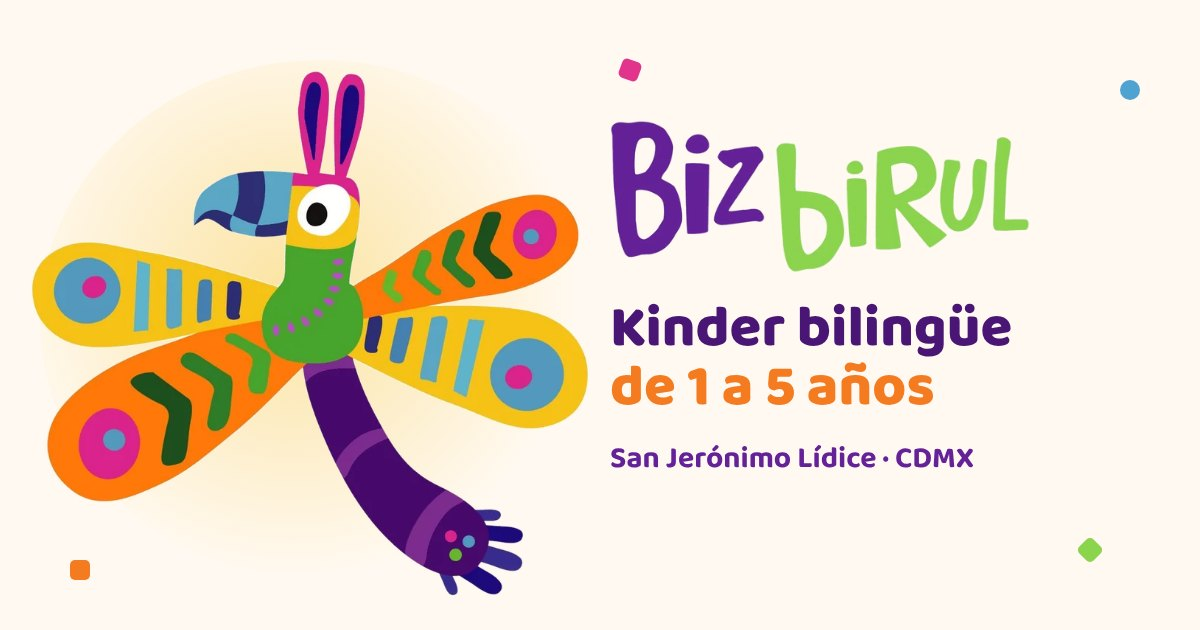
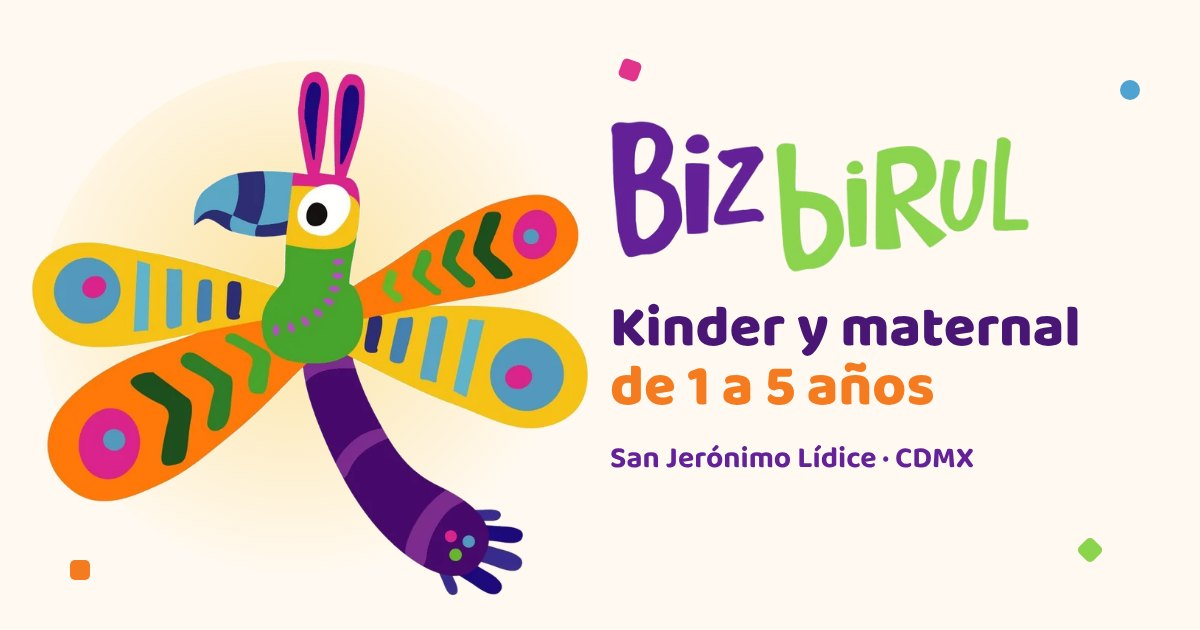
Add files via upload

Changed region(s): [[0.6475, 0.4825, 0.925, 0.573]]

diff --git a/index.html b/index.html
@@ -3,8 +3,8 @@
 <head>
 <meta charset="utf-8">
 <meta name="viewport" content="width=device-width,initial-scale=1,viewport-fit=cover">
-<title>Bizbirul · Kinder bilingüe en San Jerónimo Lídice</title>
-<meta name="description" content="Kinder bilingüe para niños de 1 a 5 años en San Jerónimo Lídice, CDMX. Pre maternal, Maternal, Kinder 1 y Kinder 2. Agenda tu visita por WhatsApp.">
+<title>Bizbirul · Kinder y maternal en San Jerónimo Lídice</title>
+<meta name="description" content="Kinder y maternal para niños de 1 a 5 años en San Jerónimo Lídice, CDMX. Pre maternal, Maternal, Kinder 1 y Kinder 2. Agenda tu visita por WhatsApp.">
 <link rel="canonical" href="https://bizbirul.com/">
 <meta name="theme-color" content="#652198">
 <link rel="icon" type="image/png" sizes="32x32" href="/favicon-32.png">
@@ -12,18 +12,18 @@
 <meta property="og:type" content="website">
 <meta property="og:locale" content="es_MX">
 <meta property="og:site_name" content="Bizbirul">
-<meta property="og:title" content="Bizbirul · Kinder bilingüe en San Jerónimo Lídice">
+<meta property="og:title" content="Bizbirul · Kinder y maternal en San Jerónimo Lídice">
 <meta property="og:description" content="Los primeros años, en un lugar hecho solo para ellos. Recorre el kinder en 3D y agenda tu visita.">
 <meta property="og:url" content="https://bizbirul.com/">
 <meta property="og:image" content="https://bizbirul.com/og.jpg">
 <meta property="og:image:width" content="1200"><meta property="og:image:height" content="630">
 <meta name="twitter:card" content="summary_large_image">
-<script type="application/ld+json">{"@context": "https://schema.org", "@type": "Preschool", "name": "Bizbirul", "description": "Kinder bilingüe para niños de 1 a 5 años en San Jerónimo Lídice, CDMX.", "url": "https://bizbirul.com/", "telephone": "+52 55 5102 3296", "email": "direccion@bizbirul.com", "image": "https://bizbirul.com/og.jpg", "logo": "https://bizbirul.com/icon-512.png", "address": {"@type": "PostalAddress", "streetAddress": "José María Morelos 92", "addressLocality": "San Jerónimo Lídice, La Magdalena Contreras", "addressRegion": "CDMX", "addressCountry": "MX"}, "sameAs": ["https://www.instagram.com/bizbirul/"]}</script>
+<script type="application/ld+json">{"@context": "https://schema.org", "@type": "Preschool", "name": "Bizbirul", "description": "Kinder y maternal para niños de 1 a 5 años en San Jerónimo Lídice, CDMX.", "url": "https://bizbirul.com/", "telephone": "+52 55 5102 3296", "email": "direccion@bizbirul.com", "image": "https://bizbirul.com/og.jpg", "logo": "https://bizbirul.com/icon-512.png", "address": {"@type": "PostalAddress", "streetAddress": "José María Morelos 92", "addressLocality": "San Jerónimo Lídice, La Magdalena Contreras", "addressRegion": "CDMX", "addressCountry": "MX"}, "sameAs": ["https://www.instagram.com/bizbirul/"]}</script>
 <style>
 html,body{margin:0}
 :root{padding-top:env(safe-area-inset-top,0px);padding-bottom:env(safe-area-inset-bottom,0px)}
 img{max-width:100%}
-.real-gallery{display:grid;grid-template-columns:repeat(auto-fit,minmax(min(100%,300px),1fr));gap:14px}
+.real-gallery{display:grid;grid-template-columns:repeat(2,minmax(0,1fr));gap:10px;align-content:start}
 .real-gallery figure{margin:0;position:relative;border-radius:22px;overflow:hidden;background:var(--tint)}
 .real-gallery img{display:block;width:100%;height:auto;aspect-ratio:16/10;object-fit:cover}
 .real-gallery figcaption{position:absolute;left:12px;bottom:12px;background:rgba(255,255,255,.92);color:#2B1745;border-radius:999px;padding:4px 14px;font-family:var(--display);font-weight:800}
@@ -127,7 +127,7 @@ nav a:hover{background:var(--tint)}
 .ph{width:100%;max-width:100%;border-radius:var(--r);background:repeating-linear-gradient(135deg,var(--tint) 0 14px,var(--surface) 14px 28px);border:2px dashed var(--line);display:grid;place-items:center;text-align:center;color:var(--muted);font-weight:700;font-size:.9rem;padding:16px;aspect-ratio:4/3}
 
 /* why */
-.why{display:grid;gap:14px;grid-template-columns:repeat(auto-fit,minmax(230px,1fr))}
+.why{display:grid;gap:14px;grid-template-columns:repeat(auto-fit,minmax(min(100%,290px),1fr))}
 .why article{background:var(--surface);border-radius:24px;padding:22px;display:grid;gap:8px;align-content:start;border:2px solid var(--line)}
 .why h3{font-size:1.4rem;color:var(--deep)}
 .why .ic{width:48px;height:48px;border-radius:14px;display:grid;place-items:center}
@@ -212,6 +212,35 @@ nav a:hover{background:var(--tint)}
 .sm-x{position:absolute;top:10px;right:10px;z-index:2;width:44px;height:44px;border-radius:50%;border:0;background:rgba(255,255,255,.92);color:#2B1745;font:800 1.6rem/1 var(--display);cursor:pointer}
 @media (max-width:520px){.spot-modal{place-items:end center;padding-bottom:0;padding-left:0;padding-right:0}.sm-card{border-radius:26px 26px 0 0;padding-bottom:env(safe-area-inset-bottom,0px)}.sm-cta{order:-1;width:100%}.sm-btn{flex:1}}
 .detail p{color:var(--muted)}
+.hdr-actions{display:flex;align-items:center;gap:8px}
+.ig-btn{display:inline-flex;align-items:center;gap:8px;height:44px;padding:0 14px;border-radius:999px;text-decoration:none;font:800 .95rem var(--display);color:#FFFFFF;background:linear-gradient(45deg,#F9C31F,#F47B20 30%,#E2348C 60%,#652198)}
+.ig-btn svg{width:20px;height:20px}
+@media (max-width:420px){.ig-btn span{display:none}.ig-btn{width:44px;padding:0;justify-content:center}}
+.btn-ig{color:#FFFFFF;background:linear-gradient(45deg,#F9C31F,#F47B20 30%,#E2348C 60%,#652198)}
+.btn-ig svg{width:22px;height:22px}
+.ads{margin-bottom:22px;display:grid;gap:12px}
+.ads-title{font-size:1.4rem;color:var(--deep)}
+.ads-list{display:grid;gap:14px;grid-template-columns:repeat(auto-fill,minmax(min(100%,260px),1fr))}
+.ad{background:var(--bg);border:2px solid var(--line);border-radius:22px;overflow:hidden;display:grid}
+.ad img{width:100%;height:auto;display:block;aspect-ratio:4/5;object-fit:cover}
+.ad-body{padding:14px 16px 16px;display:grid;gap:8px}
+.ad-date{font-family:var(--display);font-weight:800;color:var(--action)}
+.ad h4{margin:0;font-family:var(--display);font-size:1.25rem;color:var(--deep)}
+.ads-empty{background:var(--bg);border:2px dashed var(--line);border-radius:22px;padding:18px;display:flex;flex-wrap:wrap;gap:12px;align-items:center;justify-content:space-between}
+.ads-empty p{margin:0;color:var(--muted);max-width:46ch}
+.quotes{display:grid;gap:14px;grid-template-columns:repeat(auto-fit,minmax(min(100%,280px),1fr))}
+.quote{margin:0;background:var(--surface);border:2px solid var(--line);border-radius:24px;padding:22px;display:grid;gap:12px;align-content:start;position:relative}
+.quote::before{content:"“";font-family:var(--display);font-weight:800;font-size:4rem;line-height:.6;color:var(--leaf)}
+.quote p{margin:0;font-size:1.05rem}
+.quote cite{font-style:normal;font-family:var(--display);font-weight:800;color:var(--brand)}
+.quote cite span{display:block;font-family:var(--body);font-weight:600;font-size:.9rem;color:var(--muted)}
+.reads{display:grid;gap:14px;grid-template-columns:repeat(auto-fit,minmax(min(100%,250px),1fr))}
+.read{background:var(--surface);border:2px solid var(--line);border-radius:22px;padding:20px;display:grid;gap:8px;align-content:start;text-decoration:none;color:var(--fg)}
+.read:hover{border-color:var(--brand)}
+.read .tag{justify-self:start;border-radius:999px;padding:2px 12px;font-family:var(--display);font-weight:800;font-size:.85rem;color:#2B1745}
+.read h3{font-size:1.25rem;color:var(--deep)}
+.read p{margin:0;color:var(--muted)}
+.read .src{font-weight:800;font-size:.85rem;color:var(--brand)}
 /* about */
 .about{display:grid;gap:24px}
 @media (min-width:860px){.about{grid-template-columns:1fr 1fr}}
@@ -272,27 +301,28 @@ footer a{color:inherit}
 <header>
 <div class="wrap">
 <a aria-label="Bizbirul, inicio" class="logo" href="#inicio"><img alt="Bizbirul" height="48" src="img/c527915c3b.webp" width="132"/></a>
-<button aria-controls="nav" aria-expanded="false" aria-label="Abrir menú" class="menu-btn" id="menuBtn"><svg fill="none" stroke="currentColor" stroke-linecap="round" stroke-width="2.5" viewbox="0 0 24 24"><path d="M4 7h16M4 12h16M4 17h16"></path></svg></button>
 <nav id="nav">
 <ul>
 <li><a href="#programa">Programa</a></li>
-<li><a href="#dia">Espacios</a></li>
+<li><a href="#dia">Un día</a></li>
 <li><a href="#recorrido">Recorrido</a></li>
 <li><a href="#nosotros">Nosotros</a></li>
 <li><a href="#camps">Camps y eventos</a></li>
 <li><a href="#admisiones">Admisiones</a></li>
+<li><a href="#papas">Para papás</a></li>
 <li><a href="#contacto">Contacto</a></li>
 </ul>
 </nav>
+<div class="hdr-actions"><a aria-label="Instagram de Bizbirul" class="ig-btn" href="https://www.instagram.com/bizbirul/" rel="noopener" target="_blank"><svg aria-hidden="true" viewbox="0 0 24 24"><rect fill="none" height="18" rx="5" stroke="currentColor" stroke-width="2" width="18" x="3" y="3"></rect><circle cx="12" cy="12" fill="none" r="4" stroke="currentColor" stroke-width="2"></circle><circle cx="17.3" cy="6.7" fill="currentColor" r="1.3"></circle></svg><span>Instagram</span></a><button aria-controls="nav" aria-expanded="false" aria-label="Abrir menú" class="menu-btn" id="menuBtn"><svg fill="none" stroke="currentColor" stroke-linecap="round" stroke-width="2.5" viewbox="0 0 24 24"><path d="M4 7h16M4 12h16M4 17h16"></path></svg></button></div>
 </div>
 </header>
 <main>
 <section class="hero" id="inicio">
 <div class="wrap">
 <div class="hero-copy">
-<span class="eyebrow">Kinder bilingüe · San Jerónimo Lídice</span>
-<h1>Los primeros años, en un lugar hecho <em>solo para ellos</em></h1>
-<p class="lead">Grupos pequeños, inglés desde pre maternal y maestras que conocen a cada niño por su nombre.</p>
+<span class="eyebrow">Kinder y maternal · San Jerónimo Lídice</span>
+<h1>Donde la felicidad <em>despierta el aprendizaje</em></h1>
+<p class="lead">Kinder y maternal de 1 a 5 años, con enfoque humanista inspirado en Reggio Emilia y Waldorf. Grupos pequeños, 50% en inglés y mucho juego.</p>
 <ul aria-label="Grados" class="ages">
 <li>Pre maternal</li><li>Maternal</li><li>Kinder 1</li><li>Kinder 2</li>
 </ul>
@@ -312,12 +342,14 @@ footer a{color:inherit}
 <div class="wrap">
 <div class="sec-head"><span class="eyebrow">Por qué Bizbirul</span><h2>Lo que nos hace distintos</h2></div>
 <div class="why">
-<article><div class="ic" style="background:color-mix(in srgb,var(--sky) 25%,transparent);color:var(--brand)"><svg fill="none" stroke="currentColor" stroke-linecap="round" stroke-width="2" viewbox="0 0 24 24"><path d="M4 5h9v7H8l-4 3zM13 9h7v7l-3-2h-4"></path></svg></div><h3>Bilingüe desde el inicio</h3><p>Español e inglés todos los días, desde pre maternal. </p></article>
-<article><div class="ic" style="background:color-mix(in srgb,var(--leaf) 25%,transparent);color:var(--brand)"><svg fill="none" stroke="currentColor" stroke-linecap="round" stroke-width="2" viewbox="0 0 24 24"><circle cx="8" cy="8" r="3"></circle><circle cx="16" cy="8" r="3"></circle><path d="M3 20c0-3 2-5 5-5s5 2 5 5M11 20c0-3 2-5 5-5s5 2 5 5"></path></svg></div><h3>Grupos pequeños</h3><p>Atención personalizada para que cada niño avance a su ritmo. </p></article>
-<article><div class="ic" style="background:color-mix(in srgb,var(--sun) 35%,transparent);color:var(--brand)"><svg fill="none" stroke="currentColor" stroke-linecap="round" stroke-width="2" viewbox="0 0 24 24"><path d="M9 18V5l11-2v13"></path><circle cx="6" cy="18" r="3"></circle><circle cx="17" cy="16" r="3"></circle></svg></div><h3>Música propia</h3><p>Bizbirul tiene sus propias canciones, como "Alas". Los niños aprenden cantando.</p></article>
-<article><div class="ic" style="background:color-mix(in srgb,var(--pink) 20%,transparent);color:var(--brand)"><svg fill="none" stroke="currentColor" stroke-linecap="round" stroke-width="2" viewbox="0 0 24 24"><path d="M12 3l8 3v6c0 5-4 8-8 9-4-1-8-4-8-9V6z"></path><path d="M9 12l2 2 4-4"></path></svg></div><h3>Seguridad y confianza</h3><p>Cámaras en salones, acceso controlado y comunicación diaria con las familias.</p></article>
+<article><div class="ic" style="background:color-mix(in srgb,var(--sky) 28%,transparent);color:var(--brand)"><svg fill="none" stroke="currentColor" stroke-linecap="round" stroke-width="2" viewbox="0 0 24 24"><path d="M4 5h9v7H8l-4 3zM13 9h7v7l-3-2h-4"></path></svg></div><h3>Inglés todo el día</h3><p>50% de exposición al inglés, integrado en el juego, los cantos, el arte y las ciencias. No es una clase aislada.</p></article>
+<article><div class="ic" style="background:color-mix(in srgb,var(--leaf) 28%,transparent);color:var(--brand)"><svg fill="none" stroke="currentColor" stroke-linecap="round" stroke-width="2" viewbox="0 0 24 24"><circle cx="8" cy="8" r="3"></circle><circle cx="16" cy="8" r="3"></circle><path d="M3 20c0-3 2-5 5-5s5 2 5 5M11 20c0-3 2-5 5-5s5 2 5 5"></path></svg></div><h3>Grupos pequeños</h3><p>Máximo 15 niños por grupo, siempre con una docente titular y una asistente.</p></article>
+<article><div class="ic" style="background:color-mix(in srgb,var(--action) 28%,transparent);color:var(--brand)"><svg fill="none" stroke="currentColor" stroke-linecap="round" stroke-width="2" viewbox="0 0 24 24"><path d="M9 3h6M10 3v6l-5 9a2 2 0 002 3h10a2 2 0 002-3l-5-9V3"></path></svg></div><h3>Programa de ciencias</h3><p>Observar, experimentar y preguntar: los niños descubren causa y efecto con materiales reales.</p></article>
+<article><div class="ic" style="background:color-mix(in srgb,var(--pink) 28%,transparent);color:var(--brand)"><svg fill="none" stroke="currentColor" stroke-linecap="round" stroke-width="2" viewbox="0 0 24 24"><circle cx="12" cy="5" r="2"></circle><path d="M12 7v6M8 21l4-8 4 8M7 10l5 1 5-1"></path></svg></div><h3>Psicomotricidad</h3><p>Equilibrio, coordinación y fuerza en circuitos y juegos, dentro y fuera del salón.</p></article>
+<article><div class="ic" style="background:color-mix(in srgb,var(--sun) 28%,transparent);color:var(--brand)"><svg fill="none" stroke="currentColor" stroke-linecap="round" stroke-width="2" viewbox="0 0 24 24"><path d="M9 18V5l11-2v13"></path><circle cx="6" cy="18" r="3"></circle><circle cx="17" cy="16" r="3"></circle></svg></div><h3>Cantos y juegos</h3><p>Música, ritmo y movimiento para el lenguaje, la memoria y la atención. Bizbirul tiene sus propias canciones, como "Alas".</p></article>
+<article><div class="ic" style="background:color-mix(in srgb,var(--brand) 28%,transparent);color:var(--brand)"><svg fill="none" stroke="currentColor" stroke-linecap="round" stroke-width="2" viewbox="0 0 24 24"><path d="M12 3l8 3v6c0 5-4 8-8 9-4-1-8-4-8-9V6z"></path><path d="M9 12l2 2 4-4"></path></svg></div><h3>Seguridad y cercanía</h3><p>Cámaras en salones, acceso controlado y seguimiento de cada niño con fotos, notas y muestras de su trabajo.</p></article>
 </div>
-
+<p class="note">Enfoque humanista, constructivista e integral, inspirado en Reggio Emilia y Waldorf: el niño es protagonista de su propio aprendizaje.</p>
 </div>
 </section>
 <section id="programa" style="background:var(--surface)">
@@ -325,22 +357,32 @@ footer a{color:inherit}
 <div class="sec-head"><span class="eyebrow">Programa</span><h2>Un programa para cada etapa</h2><p>Toca un grado para ver qué aprenden.</p></div>
 <div class="grades">
 <details class="grade"><summary><span class="band" style="background:var(--sky);margin:-20px -20px 12px"></span><h3>Pre maternal</h3></summary>
-<div class="body"><p>Primer contacto con la escuela: adaptación, juego sensorial y lenguaje.</p><ul><li>Estimulación sensorial y motriz</li><li>Primeras palabras en español e inglés</li><li>Rutinas y autonomía</li></ul></div></details>
+<div class="body"><p>Un primer contacto con la escuela, seguro y afectivo.</p><ul><li>Exploración sensorial con agua, arena, texturas y sonidos</li><li>Movimiento, equilibrio y coordinación</li><li>Primeras palabras en español e inglés</li><li>Rutinas que dan seguridad y autonomía</li></ul></div></details>
 <details class="grade"><summary><span class="band" style="background:var(--leaf);margin:-20px -20px 12px"></span><h3>Maternal</h3></summary>
-<div class="body"><p>Exploración, socialización y lenguaje en dos idiomas.</p><ul><li>Motricidad fina y gruesa</li><li>Canciones y cuentos bilingües</li><li>Control de esfínteres acompañado</li></ul></div></details>
+<div class="body"><p>Juego, lenguaje y convivencia.</p><ul><li>Juego simbólico y de construcción</li><li>Cantos, cuentos y juegos en dos idiomas</li><li>Psicomotricidad fina y gruesa</li><li>Expresar emociones, esperar turnos y colaborar</li></ul></div></details>
 <details class="grade"><summary><span class="band" style="background:var(--sun);margin:-20px -20px 12px"></span><h3>Kinder 1</h3></summary>
-<div class="body"><p>Pensamiento lógico, expresión y convivencia.</p><ul><li>Pre-escritura y pre-matemáticas</li><li>Arte, música y movimiento</li><li>Inglés en todas las actividades</li></ul></div></details>
+<div class="body"><p>Curiosidad, pensamiento y expresión.</p><ul><li>Preescritura y pensamiento lógico-matemático</li><li>Experimentos del programa de ciencias</li><li>Arte como lenguaje: pintura, modelado y música</li><li>Inglés integrado en todas las actividades</li></ul></div></details>
 <details class="grade"><summary><span class="band" style="background:var(--action);margin:-20px -20px 12px"></span><h3>Kinder 2</h3></summary>
-<div class="body"><p>Preparación para el siguiente paso escolar.</p><ul><li>Lecto-escritura inicial</li><li>Números, patrones y resolución de problemas</li><li>Habilidades socioemocionales</li></ul></div></details>
+<div class="body"><p>Más autonomía y proyectos propios.</p><ul><li>Lenguaje, preescritura y pensamiento lógico</li><li>Proyectos de ciencias a partir de sus preguntas</li><li>Psicomotricidad y conciencia corporal</li><li>Acompañamiento para el paso a Kinder 3</li></ul></div></details>
 </div>
-
+<p class="note">Cada grupo tiene una docente titular y una asistente. El juego, la exploración, el arte y el movimiento son la forma principal de aprender.</p>
 </div>
 </section>
 <section id="dia">
 <div class="wrap">
-<div class="sec-head"><span class="eyebrow">Así es Bizbirul</span><h2>Espacios pensados para ellos</h2></div>
-<div class="real-gallery"><figure><img alt="Play Room de Bizbirul" height="600" loading="lazy" src="img/5b0238290b.jpg" width="960"/><figcaption>Play Room</figcaption></figure><figure><img alt="Comedor de Bizbirul" height="600" loading="lazy" src="img/3b26f1d40f.jpg" width="960"/><figcaption>Comedor</figcaption></figure><figure><img alt="GYM de Bizbirul" height="600" loading="lazy" src="img/80293f5ff4.jpg" width="960"/><figcaption>GYM</figcaption></figure><figure><img alt="Salón de Bizbirul" height="600" loading="lazy" src="img/e730f21c06.jpg" width="960"/><figcaption>Salón</figcaption></figure><figure><img alt="Baños de Bizbirul" height="600" loading="lazy" src="img/b4a55bff1d.jpg" width="960"/><figcaption>Baños</figcaption></figure><figure><img alt="Pasillo de Bizbirul" height="600" loading="lazy" src="img/fc55508b91.jpg" width="960"/><figcaption>Pasillo</figcaption></figure></div>
-
+<div class="sec-head"><span class="eyebrow">Un día en Bizbirul</span><h2>Así es un día normal</h2></div>
+<div class="day">
+<ol class="timeline">
+<li><time>8:30</time><div><strong>Entrada</strong><br/><span style="color:var(--muted)">De 8:30 a 8:45, bienvenida a cada niño</span></div></li>
+<li><time>9:00</time><div><strong>Clase de música</strong><br/><span style="color:var(--muted)">Cantos, ritmo y movimiento hasta las 10:00</span></div></li>
+<li><time>10:00</time><div><strong>Snack y lunch</strong><br/><span style="color:var(--muted)">Comemos juntos y practicamos hábitos</span></div></li>
+<li><time>10:00</time><div><strong>Clases académicas y recreativas</strong><br/><span style="color:var(--muted)">Hasta las 14:00: juego, exploración, ciencias, arte, psicomotricidad, lectura e inglés, en un horario que rota durante la semana</span></div></li>
+<li><time>14:00</time><div><strong>Salida</strong><br/><span style="color:var(--muted)">O quédate en horario extendido</span></div></li>
+<li><time>16:00</time><div><strong>Horario extendido</strong><br/><span style="color:var(--muted)">Hasta las 16:00, con clases de mini fútbol los lunes y miércoles</span></div></li>
+</ol>
+<div class="real-gallery"><figure><img alt="Play Room de Bizbirul" height="600" loading="lazy" src="img/5b0238290b.jpg" width="960"/><figcaption>Play Room</figcaption></figure><figure><img alt="GYM de Bizbirul" height="600" loading="lazy" src="img/80293f5ff4.jpg" width="960"/><figcaption>GYM</figcaption></figure><figure><img alt="Comedor de Bizbirul" height="600" loading="lazy" src="img/3b26f1d40f.jpg" width="960"/><figcaption>Comedor</figcaption></figure><figure><img alt="Salón de Bizbirul" height="600" loading="lazy" src="img/e730f21c06.jpg" width="960"/><figcaption>Salón</figcaption></figure><figure><img alt="Baños de Bizbirul" height="600" loading="lazy" src="img/b4a55bff1d.jpg" width="960"/><figcaption>Baños</figcaption></figure><figure><img alt="Pasillo de Bizbirul" height="600" loading="lazy" src="img/fc55508b91.jpg" width="960"/><figcaption>Pasillo</figcaption></figure></div>
+</div>
+<p class="note">Las rutinas son estables para dar seguridad, con flexibilidad para seguir los intereses del grupo. Horario extendido hasta las 16:00, con mini fútbol lunes y miércoles.</p>
 </div>
 </section>
 <section class="tour" id="recorrido">
@@ -374,22 +416,33 @@ footer a{color:inherit}
 <div class="copy">
 <span class="eyebrow">Nosotros</span>
 <h2>Especialistas en primera infancia</h2>
-<p>Bizbirul nació para acompañar a los niños en sus primeros años, de 1 a 5, con un espacio pequeño, seguro y bilingüe.</p>
-
+<p>Bizbirul es una propuesta de educación infantil para niños de 1 a 5 años en San Jerónimo. Buscamos que cada niño descubra el mundo jugando, explorando, experimentando y moviéndose, en un ambiente seguro, afectivo y estimulante. </p>
+<p>Nuestro enfoque es humanista, constructivista e integral, inspirado en Reggio Emilia y Waldorf. Las maestras acompañan sin dirigir todo el tiempo: observan, preguntan y respetan el ritmo de cada niño.</p>
 </div>
 
 <figure class="about-photo"><img alt="Salón de Bizbirul" height="600" loading="lazy" src="img/3b1808d659.jpg" width="960"/></figure></div>
 </section>
 <section id="camps" style="background:var(--surface)">
 <div class="wrap">
-<div class="sec-head"><span class="eyebrow">Camps y eventos</span><h2>Ven a conocernos jugando</h2><p>Actividades abiertas en vacaciones y los viernes. La mejor forma de conocer Bizbirul.</p></div>
+<div class="sec-head"><span class="eyebrow">Camps y eventos</span><h2>Ven a conocernos jugando</h2><p>Actividades en vacaciones y los viernes, abiertas a niños que no son alumnos, hasta 10 años. La mejor forma de conocer Bizbirul.</p></div>
+<div class="ads" id="anuncios">
+<h3 class="ads-title">Próximos eventos</h3>
+<div class="ads-list" id="adsList"></div>
+<div class="ads-empty" hidden="" id="adsEmpty"><p>Pronto publicaremos los próximos eventos. Mientras, entérate primero en Instagram.</p><a class="btn btn-ig" href="https://www.instagram.com/bizbirul/" rel="noopener" target="_blank">Ver Instagram</a></div>
+</div>
 <div class="camps">
 <article class="camp friday"><span class="soon">Viernes</span><h3>Súper Friday</h3><p>Viernes temáticos: Arts &amp; Crafts, Mini Chef, Halloween y más.</p>
 <ul class="pills"><li class="p-pink"><svg viewbox="0 0 24 24"><circle cx="12" cy="12" r="9"></circle><path d="M12 7v5l3 2"></path></svg>8:15 a 13:00</li><li class="p-green"><svg viewbox="0 0 24 24"><rect height="15" rx="2" width="16" x="4" y="5"></rect><path d="M4 10h16M9 3v4M15 3v4"></path></svg>Fechas por WhatsApp</li></ul>
 <a class="btn wa-link" data-msg="Hola, quiero informes del próximo Súper Friday de Bizbirul (fecha, tema y costo)." href="#">Pide informes</a></article>
-<article class="camp summer"><span class="soon">Próximamente</span><h3>Summer Camp</h3><p>Semanas temáticas de juego, arte, música y agua en el jardín.</p><a class="btn wa-link" data-msg="Hola, quiero que me avisen cuando abran inscripciones del Summer Camp de Bizbirul." href="#">Avísame cuando abran</a></article>
-<article class="camp easter"><img alt="" class="camp-art" height="405" src="img/da93346660.webp" width="420"/><span class="soon">Próximamente</span><h3>Easter Camp</h3><p>Actividades en vacaciones de Semana Santa.</p><a class="btn wa-link" data-msg="Hola, quiero que me avisen cuando abran inscripciones del Easter Camp de Bizbirul." href="#">Avísame cuando abran</a></article>
+<article class="camp summer"><span class="soon">Próximamente</span><h3>Summer Camp</h3><p>Semanas temáticas de juego, arte, música y agua en el jardín. Para niños hasta 10 años.</p><a class="btn wa-link" data-msg="Hola, quiero que me avisen cuando abran inscripciones del Summer Camp de Bizbirul." href="#">Avísame cuando abran</a></article>
+<article class="camp easter"><img alt="" class="camp-art" height="405" src="img/da93346660.webp" width="420"/><span class="soon">Próximamente</span><h3>Easter Camp</h3><p>Actividades en vacaciones de Semana Santa, para niños hasta 10 años.</p><a class="btn wa-link" data-msg="Hola, quiero que me avisen cuando abran inscripciones del Easter Camp de Bizbirul." href="#">Avísame cuando abran</a></article>
 </div>
+</div>
+</section>
+<section hidden="" id="familias">
+<div class="wrap">
+<div class="sec-head"><span class="eyebrow">Familias Bizbirul</span><h2>Lo que dicen mamás y papás</h2></div>
+<div class="quotes" id="quotes"></div>
 </div>
 </section>
 <section id="admisiones">
@@ -398,7 +451,7 @@ footer a{color:inherit}
 <ol class="steps">
 <li><h3>Agenda tu visita</h3><p>Escríbenos por WhatsApp y elige día y hora.</p></li>
 <li><h3>Conócenos</h3><p>Recorre el kinder, conoce a las maestras y resuelve tus dudas.</p></li>
-<li><h3>Inscripción</h3><p>Te enviamos requisitos y apartas tu lugar. </p></li>
+<li><h3>Inscripción</h3><p>Apartas tu lugar con la cartilla de vacunación y el seguro de gastos médicos de tu hijo.</p></li>
 </ol>
 <div class="next">
 <span class="eyebrow">Después de Bizbirul</span>
@@ -406,12 +459,20 @@ footer a{color:inherit}
 <p>Al terminar Kinder 2, te orientamos para elegir colegio para Kinder 3 y te entregamos un informe del desarrollo de tu hijo.</p>
 </div>
 <div class="faq">
-<details><summary>¿Bizbirul está incorporado a la SEP?</summary><p>No. Bizbirul es un programa privado de primera infancia no incorporado a la SEP. Atendemos de 1 a 5 años, y al terminar Kinder 2 te acompañamos para el ingreso a Kinder 3 en el colegio que elijas. </p></details>
-
-
-<details><summary>¿Necesita saber inglés mi hijo para entrar?</summary><p>No. Los niños aprenden inglés de forma natural, jugando y cantando, sin importar su punto de partida.</p></details>
-
+<details><summary>¿Bizbirul está incorporado a la SEP?</summary><p>No. Bizbirul es un programa privado de primera infancia no incorporado a la SEP. Atendemos de 1 a 5 años, y al terminar Kinder 2 te acompañamos para el ingreso a Kinder 3 en el colegio que elijas.</p></details>
+<details><summary>¿Cuántos niños hay por grupo?</summary><p>Máximo 15 niños por grupo, siempre con una docente titular y una asistente.</p></details>
+<details><summary>¿Qué horario tienen?</summary><p>Entrada de 8:30 a 8:45 y salida a las 2:00 pm, de lunes a viernes.</p></details>
+<details><summary>¿Hay horario extendido?</summary><p>Sí, hasta las 4:00 pm. Los lunes y miércoles incluye clases de mini fútbol.</p></details>
+<details><summary>¿Necesita saber inglés mi hijo para entrar?</summary><p>No. Alrededor de 50% de la jornada es en inglés, integrado en el juego, los cantos y las actividades, así que los niños lo aprenden de forma natural, sin importar su punto de partida.</p></details>
+<details><summary>¿Dan alimentos?</summary><p>Cada niño trae su lunch de casa. Si lo prefieres, tenemos un convenio con WTF, que puede prepararlo por ti.</p></details>
+<details><summary>¿Qué necesito para inscribir a mi hijo?</summary><p>Cartilla de vacunación y seguro de gastos médicos. Te compartimos el proceso completo por WhatsApp.</p></details>
 </div>
+</div>
+</section>
+<section id="papas">
+<div class="wrap">
+<div class="sec-head"><span class="eyebrow">Para papás</span><h2>Lecturas recomendadas</h2><p>Artículos cortos de fuentes confiables sobre los primeros años.</p></div>
+<div class="reads" id="reads"></div>
 </div>
 </section>
 <section id="contacto" style="background:var(--surface)">
@@ -424,7 +485,7 @@ footer a{color:inherit}
 
 <div><dt>Correo</dt><dd><a href="mailto:direccion@bizbirul.com">direccion@bizbirul.com</a></dd></div><div><dt>Instagram</dt><dd><a href="https://www.instagram.com/bizbirul/" rel="noopener" target="_blank">@bizbirul</a></dd></div>
 </dl>
-<a class="btn btn-action wa-link" data-msg="Hola, me gustaría agendar una visita a Bizbirul." href="#" style="justify-self:start">Agenda tu visita</a>
+<div style="display:flex;flex-wrap:wrap;gap:10px"><a class="btn btn-action wa-link" data-msg="Hola, me gustaría agendar una visita a Bizbirul." href="#">Agenda tu visita</a><a class="btn btn-ig" href="https://www.instagram.com/bizbirul/" rel="noopener" target="_blank"><svg aria-hidden="true" viewbox="0 0 24 24"><rect fill="none" height="18" rx="5" stroke="currentColor" stroke-width="2" width="18" x="3" y="3"></rect><circle cx="12" cy="12" fill="none" r="4" stroke="currentColor" stroke-width="2"></circle><circle cx="17.3" cy="6.7" fill="currentColor" r="1.3"></circle></svg>Síguenos en Instagram</a></div>
 </div>
 <div class="contact-art"><img alt="" height="716" src="img/058d1d13c0.webp" width="760"/><p>José María Morelos #92<br/>San Jerónimo Lídice</p></div>
 </div>
@@ -921,6 +982,35 @@ start().catch(err => console.error(err));
     });
   });
 
+
+  /* ===== CONTENIDO EDITABLE =====
+     ANUNCIOS: { titulo, fecha (texto), vence (AAAA-MM-DD, se oculta al día siguiente), texto, imagen (ruta o vacío), mensaje (WhatsApp) }
+     TESTIMONIOS: { texto, nombre, detalle }  (la sección se muestra sola cuando hay al menos uno) */
+  var ANUNCIOS = [];
+  var TESTIMONIOS = [];
+  var LECTURAS = [
+    { tag: "Adaptación", color: "#FBD3E6", titulo: "Cómo ayudar a tu hijo a adaptarse al preescolar", texto: "Ideas prácticas para los primeros días: despedidas cortas, rituales y objetos que dan seguridad.", fuente: "KidsHealth (Nemours)", url: "https://kidshealth.org/Inova/es/parents/adjust-to-preschool.html" },
+    { tag: "Juego", color: "#DDF2C6", titulo: "¿Por qué es importante el juego en la primera infancia?", texto: "Jugar es la forma en que los niños aprenden. Qué tipo de juego conviene en cada edad y por qué menos juguetes puede ser más.", fuente: "UNICEF", url: "https://www.unicef.org/uruguay/crianza/primeros-anos/por-que-es-importante-el-juego-en-la-primera-infancia" },
+    { tag: "Bilingüismo", color: "#CFE7F6", titulo: "Niños pequeños que aprenden varios idiomas", texto: "Mitos y realidades: aprender dos idiomas no confunde ni retrasa el lenguaje.", fuente: "Academia Americana de Pediatría", url: "https://www.healthychildren.org/Spanish/ages-stages/gradeschool/school/Paginas/7-myths-facts-bilingual-children-learning-language.aspx" },
+    { tag: "Desarrollo", color: "#FFE7A3", titulo: "Indicadores del desarrollo por edad", texto: "Qué hacen la mayoría de los niños a cada edad, con listas sencillas para seguir su crecimiento.", fuente: "CDC · Aprenda los signos", url: "https://www.cdc.gov/ncbddd/spanish/actearly/index.html" }
+  ];
+  function el(tag, cls, txt){ var e = document.createElement(tag); if (cls) e.className = cls; if (txt) e.textContent = txt; return e; }
+  var today = new Date(); today.setHours(0,0,0,0);
+  var vigentes = ANUNCIOS.filter(function(a){ return !a.vence || new Date(a.vence + 'T23:59:59') >= today; });
+  var adsList = document.getElementById('adsList');
+  vigentes.forEach(function(a){
+    var c = el('article','ad');
+    if (a.imagen){ var im = el('img'); im.src = a.imagen; im.alt = a.titulo; im.loading = 'lazy'; c.appendChild(im); }
+    var b = el('div','ad-body'); if (a.fecha) b.appendChild(el('span','ad-date',a.fecha)); b.appendChild(el('h4',null,a.titulo)); if (a.texto) b.appendChild(el('p',null,a.texto));
+    var w = el('a','btn btn-action','Pide informes'); w.href = 'https://wa.me/' + WA + '?text=' + encodeURIComponent(a.mensaje || ('Hola, quiero informes de ' + a.titulo + ' en Bizbirul.')); w.target = '_blank'; w.rel = 'noopener'; b.appendChild(w);
+    c.appendChild(b); adsList.appendChild(c);
+  });
+  document.getElementById('adsEmpty').hidden = vigentes.length > 0;
+  var q = document.getElementById('quotes');
+  TESTIMONIOS.forEach(function(t){ var f = el('figure','quote'); f.appendChild(el('p',null,t.texto)); var ci = el('cite',null,t.nombre); if (t.detalle) ci.appendChild(el('span',null,t.detalle)); f.appendChild(ci); q.appendChild(f); });
+  document.getElementById('familias').hidden = TESTIMONIOS.length === 0;
+  var rd = document.getElementById('reads');
+  LECTURAS.forEach(function(r){ var a = el('a','read'); a.href = r.url; a.target = '_blank'; a.rel = 'noopener'; var t = el('span','tag',r.tag); t.style.background = r.color; a.appendChild(t); a.appendChild(el('h3',null,r.titulo)); a.appendChild(el('p',null,r.texto)); a.appendChild(el('span','src',r.fuente + ' ↗')); rd.appendChild(a); });
 })();
 </script>
 
